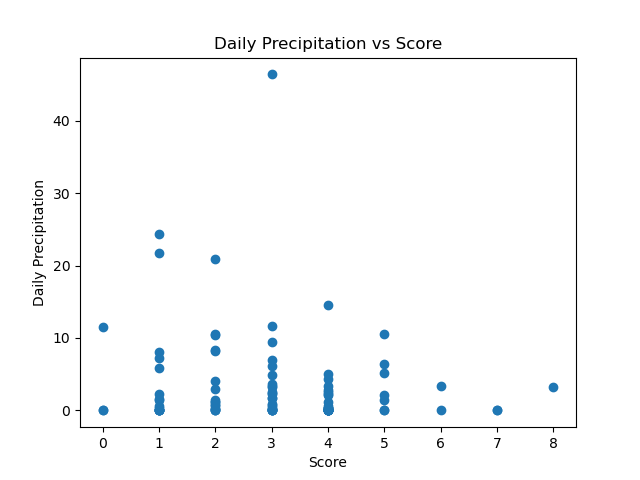
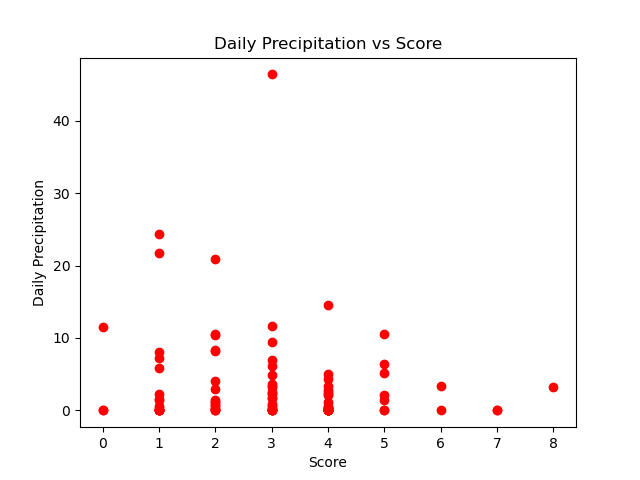
added color

diff --git a/visualisations.py b/visualisations.py
@@ -59,7 +59,7 @@ for temp in temps:
 #print(temps_list)
 #print(scores)
 fig, ax = plt.subplots()
-ax.scatter(temps_list, scores_list)
+ax.scatter(temps_list, scores_list, color = 'black')
 ax.set_ylabel('Score')
 ax.set_xlabel('Average Daily Temperature')
 ax.set_title('Score vs Average Daily Temperature') 
@@ -79,7 +79,7 @@ for temp in temps:
     elevation_list.append(elevations[i][0])
     i+=1
 fig, ax = plt.subplots()
-ax.scatter(temps_list, elevation_list)
+ax.scatter(temps_list, elevation_list, color = 'purple')
 ax.set_xlabel('Elevation')
 ax.set_ylabel('Average Daily Temperature')
 ax.set_title('Average Daily Temperature vs Elevation') 
@@ -98,7 +98,7 @@ for precipitation in precipitations:
     scores_list.append(scores[i][0])
     i+=1
 fig, ax = plt.subplots()
-ax.scatter(scores_list, precipitation_list)
+ax.scatter(scores_list, precipitation_list, color = 'red')
 ax.set_xlabel('Score')
 ax.set_ylabel('Daily Precipitation')
 ax.set_title('Daily Precipitation vs Score') 
